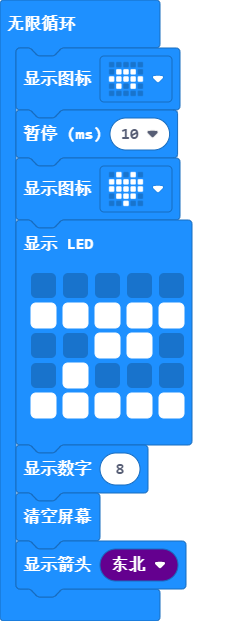
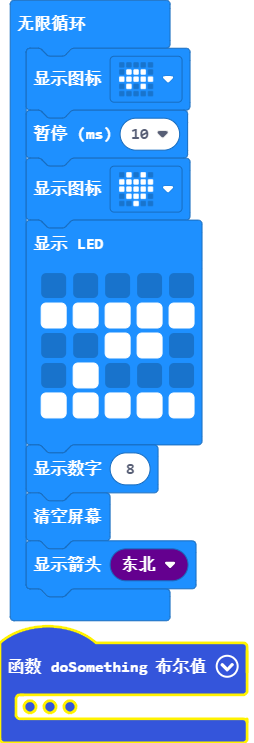
更新 pxt.json, main.blocks, main.ts, main.py

diff --git a/main.ts b/main.ts
@@ -1,14 +1,18 @@
-basic.forever(function () {
+function doSomething(布尔值: boolean) {
+    
+}
+
+basic.forever(function on_forever() {
     basic.showIcon(IconNames.Tortoise)
     basic.pause(10)
     basic.showIcon(IconNames.Heart)
     basic.showLeds(`
         . . . . .
-        # # # # #
-        . . # # .
-        . # . . .
-        # # # # #
-        `)
+                # # # # #
+                . . # # .
+                . # . . .
+                # # # # #
+    `)
     basic.showNumber(8)
     basic.clearScreen()
     basic.showArrow(ArrowNames.NorthEast)

diff --git a/main.py b/main.py
@@ -1,3 +1,6 @@
+def doSomething(布尔值: bool):
+    pass
+
 def on_forever():
     basic.show_icon(IconNames.TORTOISE)
     basic.pause(10)
